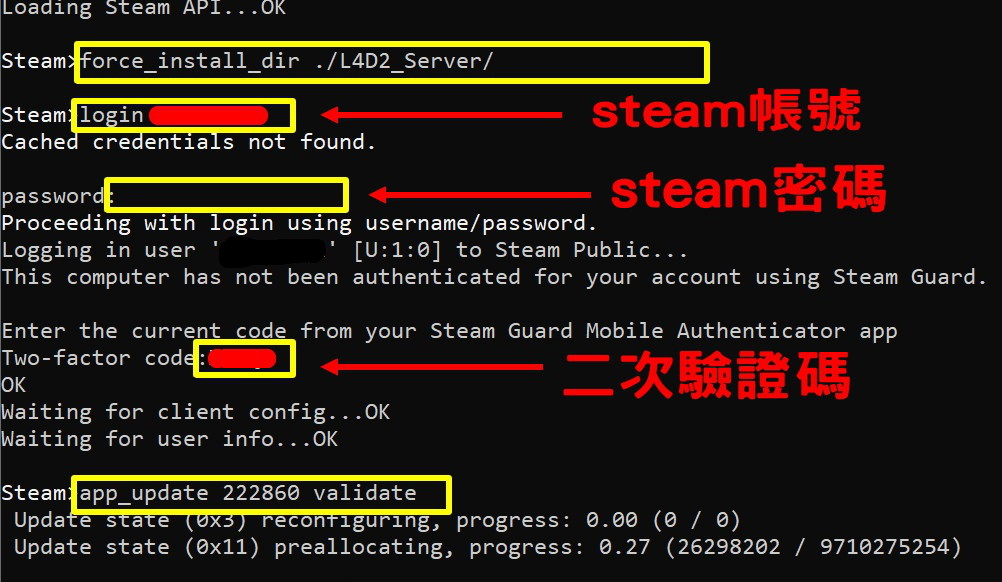
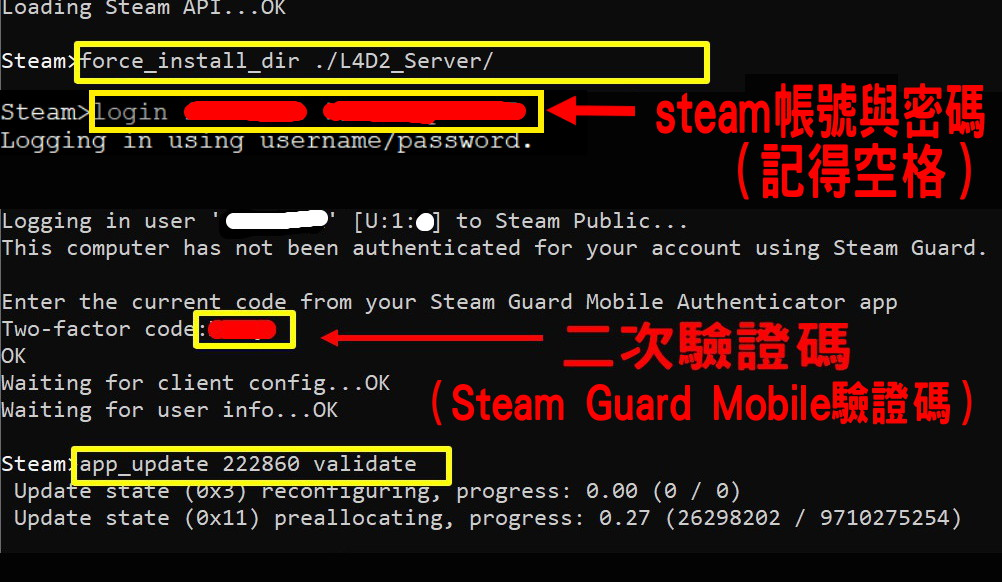
2026-3-21 update
ItemTracking v1.6h

Changed region(s): [[0.0, 0.1237, 0.99, 0.9588]]

diff --git a/Tutorial_教學區/Chinese_繁體中文/Server/安裝伺服器與插件/README.md b/Tutorial_教學區/Chinese_繁體中文/Server/安裝伺服器與插件/README.md
@@ -63,11 +63,12 @@
       <br/>![image](image/3.jpg)
       - ```force_install_dir ./L4D2_Server/```
          - L4D2_Server是創建資料夾名稱，可自取，不要有中文，伺服器所有檔案將會安裝在這裡
-      - ```login xxxxx```
-         - xxxxx 是你的steam帳戶的帳號
+      - ```login xxxxx yyyyy```
+         - xxxxx 是你的steam帳戶的帳號 (不是顯示名稱也不是steam id)
+         - yyyyy 是你的steam帳戶的密碼
+         - 🟥 請記得空格
          - 🟥 現在steam政策已改，無法匿名登入安裝伺服器
-         - 第一次登入時出現```password: ```要輸入steam帳戶的密碼，看不到自己的密碼是正常的
-         - 如果要二次驗證就輸入Steam Guard Mobile驗證碼
+         - 第一次登入需要二次驗證，輸入Steam Guard Mobile驗證碼
       - ```app_update XXXXXX validate```
          - XXXXXX 為遊戲伺服器的App ID，[steamdb](https://steamdb.info/) 自行搜尋遊戲
             - 222840 為L4D - Dedicated Serverr
@@ -97,11 +98,12 @@
       <br/>![image](image/3.jpg)
       - ```force_install_dir ./L4D2_Server/```
          - L4D2_Server是創建資料夾名稱，可自取，不要有中文，伺服器所有檔案將會安裝在這裡
-      - ```login xxxxx```
-         - xxxxx 是你的steam帳戶的帳號
+      - ```login xxxxx yyyyy```
+         - xxxxx 是你的steam帳戶的帳號 (不是顯示名稱也不是steam id)
+         - yyyyy 是你的steam帳戶的密碼
+         - 🟥 請記得空格
          - 🟥 現在steam政策已改，無法匿名登入安裝伺服器
-         - 第一次登入時出現```password: ```要輸入steam帳戶的密碼，看不到自己的密碼是正常的
-         - 如果要二次驗證就輸入Steam Guard Mobile驗證碼
+         - 第一次登入需要二次驗證，輸入Steam Guard Mobile驗證碼
       - ```app_update XXXXXX validate```
          - XXXXXX 為遊戲伺服器的App ID，[steamdb](https://steamdb.info/) 自行搜尋遊戲
             - 222840 為L4D - Dedicated Server
@@ -855,11 +857,12 @@
       <br/>![image](image/3.jpg)
       - ```force_install_dir "My_Server_Path"```
          - My_Server_Path是你的伺服器檔案主目錄的路徑，也就是srcds.exe所在的資料夾 (請輸入完整路徑)
-      - ```login xxxxx```
-         - xxxxx 是你的steam帳戶的帳號
+      - ```login xxxxx yyyyy```
+         - xxxxx 是你的steam帳戶的帳號 (不是顯示名稱也不是steam id)
+         - yyyyy 是你的steam帳戶的密碼
+         - 🟥 請記得空格
          - 🟥 現在steam政策已改，無法匿名登入安裝伺服器
-         - 第一次登入時出現```password: ```要輸入steam帳戶的密碼，看不到自己的密碼是正常的
-         - 如果要二次驗證就輸入Steam Guard Mobile驗證碼
+         - 第一次登入需要二次驗證，輸入Steam Guard Mobile驗證碼
       - ```app_update XXXXXX validate```
          - XXXXXX 為遊戲伺服器的App ID
             - 222840 為L4D - Dedicated Server
@@ -888,11 +891,12 @@
       <br/>![image](image/3.jpg)
       - ```force_install_dir "My_Server_Path"```
          - My_Server_Path是你的伺服器檔案主目錄的路徑，也就是srcds_run所在的資料夾 (請輸入完整路徑)
-      - ```login xxxxx```
-         - xxxxx 是你的steam帳戶的帳號
+      - ```login xxxxx yyyyy```
+         - xxxxx 是你的steam帳戶的帳號 (不是顯示名稱也不是steam id)
+         - yyyyy 是你的steam帳戶的密碼
+         - 🟥 請記得空格
          - 🟥 現在steam政策已改，無法匿名登入安裝伺服器
-         - 第一次登入時出現```password: ```要輸入steam帳戶的密碼，看不到自己的密碼是正常的
-         - 如果要二次驗證就輸入Steam Guard Mobile驗證碼
+         - 第一次登入需要二次驗證，輸入Steam Guard Mobile驗證碼
       - ```app_update XXXXXX validate```
          - XXXXXX 為遊戲伺服器的App ID，[steamdb](https://steamdb.info/) 自行搜尋遊戲
             - 222840 為L4D - Dedicated Server

diff --git a/Tutorial_教學區/English/Server/Install_Fix/README.md b/Tutorial_教學區/English/Server/Install_Fix/README.md
@@ -89,7 +89,7 @@
    * (L4D1/2) [l4d_remove_item_collision](https://forums.alliedmods.net/showthread.php?t=328327): Changes the collision from all weapons or carryables to collide only with the world and static stuff
       * Useful on servers where is possible to have many items in almost the same place (e.g. through !buy system), which can cause lag because of the number of items colliding.
    
-   * (L4D1/2) [disable_cameras](https://github.com/shqke/sp_public/tree/master/disable_cameras): 修復玩家被地圖上的鏡頭卡住視角
+   * (L4D1/2) [disable_cameras](https://github.com/shqke/sp_public/tree/master/disable_cameras): Fixes crash when kicking a bot during an intro sequence (when transition is controlled by point_viewcontrol_survivor from side view to first person). Fixes multiple potential visual bugs on round restart, such as missing HUD and viewmodel for spectators after "finale vehicle escape" sequence team swap.
 
    * (L4D1/2) [l4d_fix_deathfall_cam](https://github.com/Target5150/MoYu_Server_Stupid_Plugins/tree/master/The%20Last%20Stand/l4d_fix_deathfall_cam)
       * Fixes crash when kicking a bot during an intro sequence (when transition is controlled by point_viewcontrol_survivor from side view to first person)

diff --git a/Tutorial_教學區/Chinese_繁體中文/Server/安裝實用的修復/README.md b/Tutorial_教學區/Chinese_繁體中文/Server/安裝實用的修復/README.md
@@ -25,7 +25,7 @@
 
 * <details><summary><b>修復伺服器崩潰</b></summary>
 
-   * [AcceptInput_crash_fix](https://github.com/fbef0102/Game-Private_Plugin/tree/main/Source_插件/Entity_實體物件/AcceptInput_crash_fix): 修復物件不存在或不合法或玩家離開伺服器，實體輸入所造成的崩潰 (常見於三方地圖)
+   * [AcceptInput_crash_fix](https://github.com/fbef0102/Game-Private_Plugin/tree/main/Source_插件/Entity_實體物件/AcceptInput_crash_fix): 修復物件實體被輸入錯誤或不合法的參數所造成的崩潰 (常見於三方地圖)
 
    * [sm-stringpool-fix](https://github.com/azalty/sm-stringpool-fix): 修復崩潰: ```CUtlRBTree overflow```
       * 不適用L4D1/2     

diff --git a/README.md b/README.md
@@ -149,7 +149,7 @@
 * <details><summary><b>Entity | 實體物件</b></summary>
 
   * [AcceptInput_crash_fix](/Source_插件/Entity_實體物件/AcceptInput_crash_fix): Fixes a crash due to null/invalid activator in source engine game entities inputs
-    * 修復物件不存在或不合法或玩家離開伺服器，實體輸入所造成的崩潰 (常見於三方地圖)
+    * 修復物件實體被輸入錯誤或不合法的參數所造成的崩潰 (常見於三方地圖)
 </details>
 
 * <details><summary><b>Fun | 娛樂</b></summary>

diff --git a/Source_插件/Entity_實體物件/AcceptInput_crash_fix/readme.md b/Source_插件/Entity_實體物件/AcceptInput_crash_fix/readme.md
@@ -74,7 +74,7 @@ Fixes a crash due to null/invalid activator in source engine game entities input
 
 - - - -
 # 中文說明
-修復物件不存在或不合法或玩家離開伺服器，實體輸入所造成的崩潰 (常見於三方地圖)
+修復物件實體被輸入錯誤或不合法的參數所造成的崩潰 (常見於三方地圖)
 
 * 原理
     * 這是所有source引擎的遊戲都會有的bug

diff --git a/L4D_插件/Items_物品/ItemTracking/readme.md b/L4D_插件/Items_物品/ItemTracking/readme.md
@@ -87,6 +87,9 @@ This plugin is private, Please contact [me](/#私人插件列表-private-plugins
 
 * <details><summary>Changelog | 版本日誌</summary>
 	
+	* 1.6h (2026-3-21)
+		* Fixed "pistol_magnum" wrong spawning
+
 	* 1.5h (2025-10-6)
 		* Add function: replace item with other item
 		* Update data file
